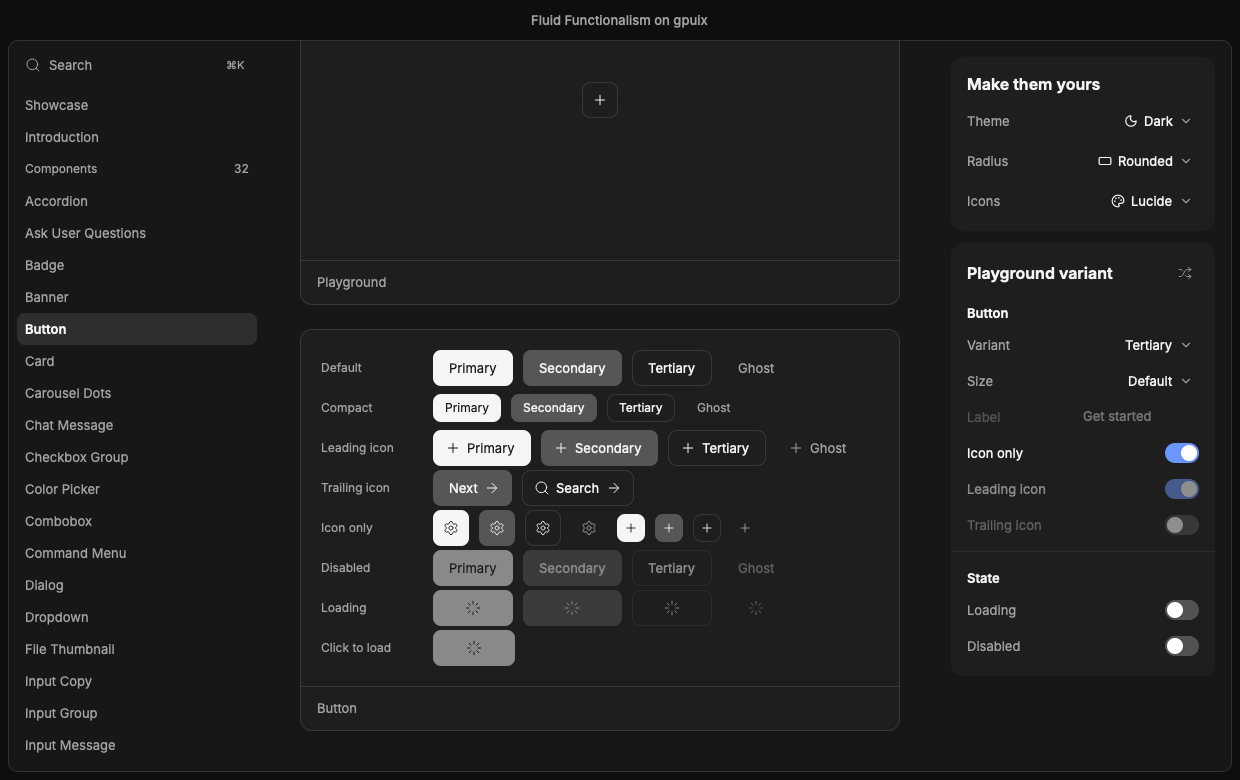
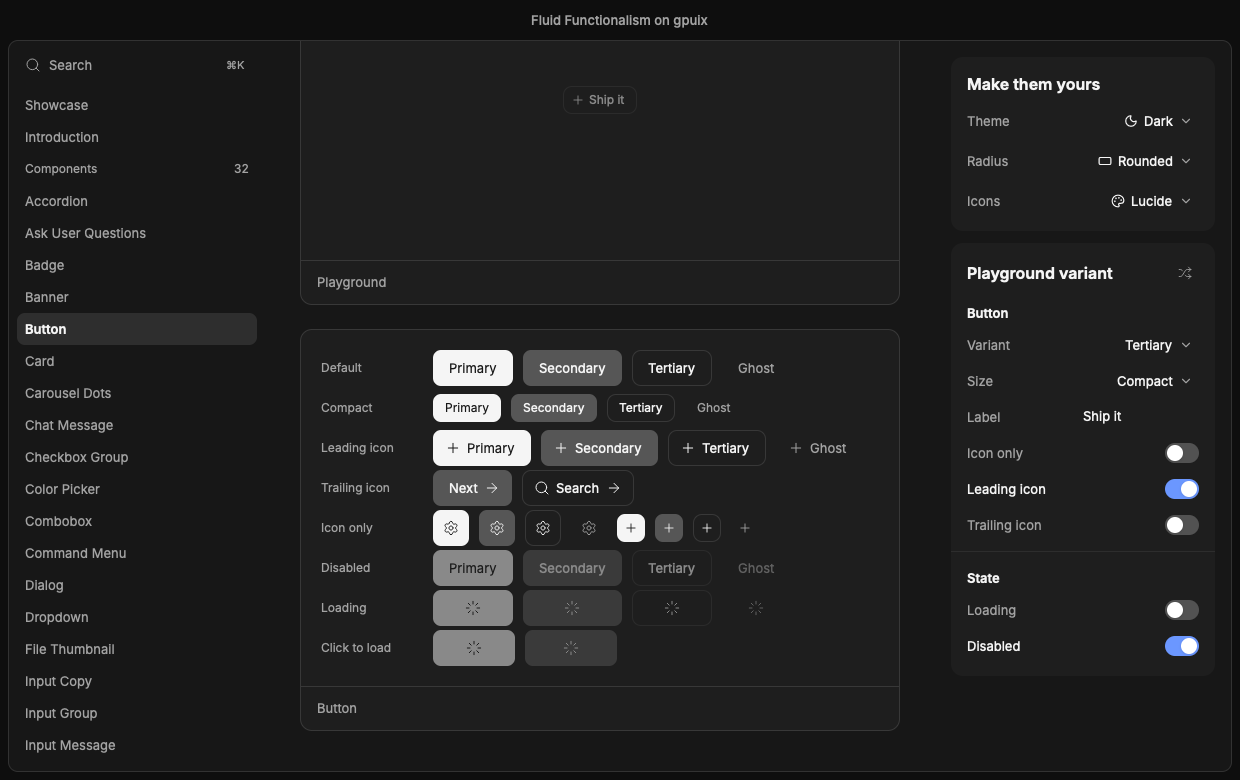
Button demo: the loading secondary Saving button with a leading loader

diff --git a/src/demos/button.tsx b/src/demos/button.tsx
@@ -320,6 +320,14 @@ export function Demo() {
 					/>
 					<DemoRow label="Click to load">
 						<ClickToLoad />
+						<Button
+							testId="saving-secondary"
+							variant="secondary"
+							loading
+							leadingIcon="loader"
+						>
+							Saving
+						</Button>
 					</DemoRow>
 				</div>
 			</DemoCard>

diff --git a/drift/button.md b/drift/button.md
@@ -110,9 +110,9 @@ Checked with no drift: sizes (36 / 28 / icon squares), paddings (16 / 12, 12 / 8
 
 ## Demo: variants that exist and are missing
 
-- **Cause:** `port choice` (no prop to drive it) for full-width; `not ported yet` for the `Saving` button.
+- **Cause:** `port choice` (no prop to drive it).
 - **Original:** `app/docs/button/page.tsx:95-148`: Variants (four inline plus four `w-full`), With Icons (`Create` leading `plus`, secondary `Next` trailing `arrow-right`, tertiary `Search` leading `search` and trailing `arrow-right`), Loading & Disabled (a `Click me` button that loads for 2s, secondary `Saving` loading with a leading `loader`, `Disabled`).
-- **Port:** `src/demos/button.tsx`: Default and Compact rows of the four variants, a Leading icon row (`plus` on all four), a Trailing icon row (secondary `Next`, tertiary `Search` on both sides), Icon only (both sizes), Disabled and Loading rows of the four variants, and a Click to load row (the 2s button). Missing: the four `w-full` buttons (`Button` has no width prop), the `Saving` button (a loading button with a leading `loader`). Added: the Compact, Icon only and per-variant Disabled / Loading rows. The icon-only buttons have no `aria-label` (the source playground sets one, `playgrounds/button.tsx:55`, `:222`). Copy matches.
+- **Port:** `src/demos/button.tsx`: Default and Compact rows of the four variants, a Leading icon row (`plus` on all four), a Trailing icon row (secondary `Next`, tertiary `Search` on both sides), Icon only (both sizes), Disabled and Loading rows of the four variants, and a Click to load row (the 2s button and the loading secondary `Saving` with a leading `loader`). Missing: the four `w-full` buttons (`Button` has no width prop). Added: the Compact, Icon only and per-variant Disabled / Loading rows. The icon-only buttons have no `aria-label` (the source playground sets one, `playgrounds/button.tsx:55`, `:222`). Copy matches.
 - **Workaround:** n/a.
 - **Fidelity:** n/a.
 - **Components it hits:** just this one.
